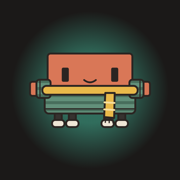
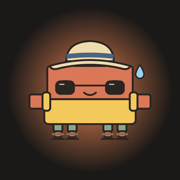
Add files via upload

diff --git a/index.html b/index.html
@@ -13,8 +13,8 @@
 <meta property="og:description" content="A little crab checks the forecast and dresses in the right layers for the weather.">
 <meta property="og:type" content="website">
 <link rel="icon" href="favicon.svg" type="image/svg+xml">
-<link rel="apple-touch-icon" href="apple-touch-icon.png">
-<link rel="manifest" href="site.webmanifest">
+<link rel="apple-touch-icon" href="apple-touch-icon.png?v=2">
+<link rel="manifest" href="site.webmanifest?v=2">
 <style>
 html { box-sizing: border-box; padding-top: env(safe-area-inset-top, 0px); padding-bottom: env(safe-area-inset-bottom, 0px); }
 body { margin: 0; }
@@ -1464,7 +1464,7 @@ button:focus-visible, input:focus-visible { outline: 2px solid var(--focus); out
       updateInstall();
       return;
     }
-    $("#installIcon").innerHTML = crabSVG({ tier: "sweater", rain: false, snow: false, sunny: false }, { flat: true });
+    $("#installIcon").innerHTML = crabSVG({ tier: "hot", rain: false, snow: false, sunny: true }, { flat: true });
     $("#installSteps").innerHTML = isIOS
       ? `<li><span>tap the share button ${SHARE_IC} in your browser's toolbar</span></li>
          <li><span>scroll down and tap ${PLUS_IC} <b>Add to Home Screen</b></span></li>
@@ -1493,7 +1493,7 @@ button:focus-visible, input:focus-visible { outline: 2px solid var(--focus); out
       <div class="w w-medium"><div class="wbox"><div class="wglow"></div><div class="wcat">${cat}</div><span class="wt l">${temp(d.min)}</span><span class="wt r">${temp(d.max)}</span></div><label>weathercrab</label></div>
       <div class="w w-small"><div class="wbox"><div class="wglow"></div><div class="wcat">${cat}</div><span class="wt l">${temp(d.min)}</span><span class="wt r">${temp(d.max)}</span></div><label>weathercrab</label></div>
       <div class="w-icons">
-        <div class="w"><div class="app-icon">${crabSVG({ tier: "sweater", rain: false, snow: false, sunny: false }, { flat: true })}</div><label>weathercrab</label></div>
+        <div class="w"><div class="app-icon">${crabSVG({ tier: "hot", rain: false, snow: false, sunny: true }, { flat: true })}</div><label>weathercrab</label></div>
         <div class="w"><div class="app-icon ghost"></div><label>&nbsp;</label></div>
         <div class="w"><div class="app-icon ghost"></div><label>&nbsp;</label></div>
         <div class="w"><div class="app-icon ghost"></div><label>&nbsp;</label></div>

diff --git a/sw.js b/sw.js
@@ -1,8 +1,8 @@
 /* weathercrab service worker: makes the site installable and lets it open offline.
    Pages and icons come from the network first (so new deploys show up right away)
    and fall back to the last cached copy. Weather and font requests go straight to the network. */
-const CACHE = "weathercrab-v1";
-const SHELL = ["./", "index.html", "favicon.svg", "apple-touch-icon.png", "icon-192.png", "icon-512.png", "site.webmanifest"];
+const CACHE = "weathercrab-v2";
+const SHELL = ["./", "index.html", "favicon.svg", "apple-touch-icon.png?v=2", "icon-192.png?v=2", "icon-512.png?v=2", "site.webmanifest?v=2"];
 
 self.addEventListener("install", (e) => {
   e.waitUntil(caches.open(CACHE).then((c) => c.addAll(SHELL)).then(() => self.skipWaiting()));
